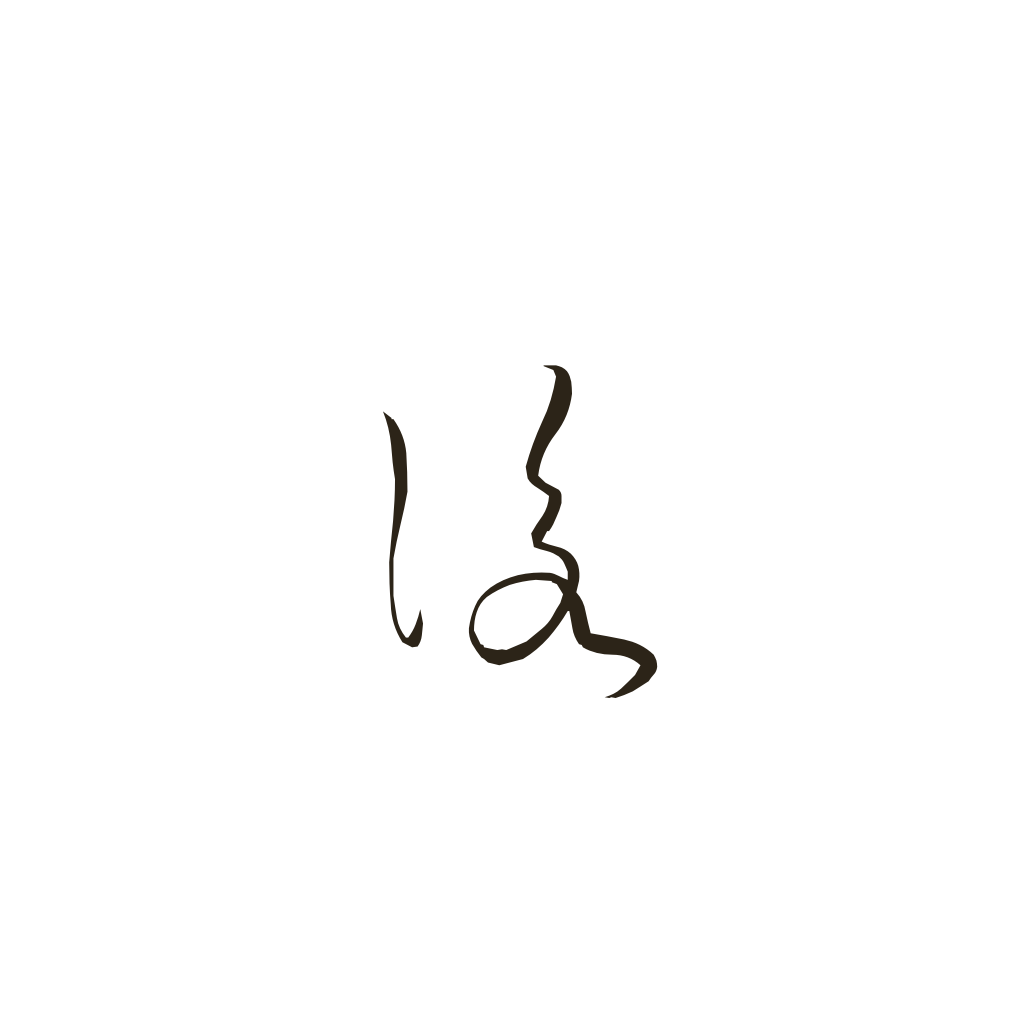
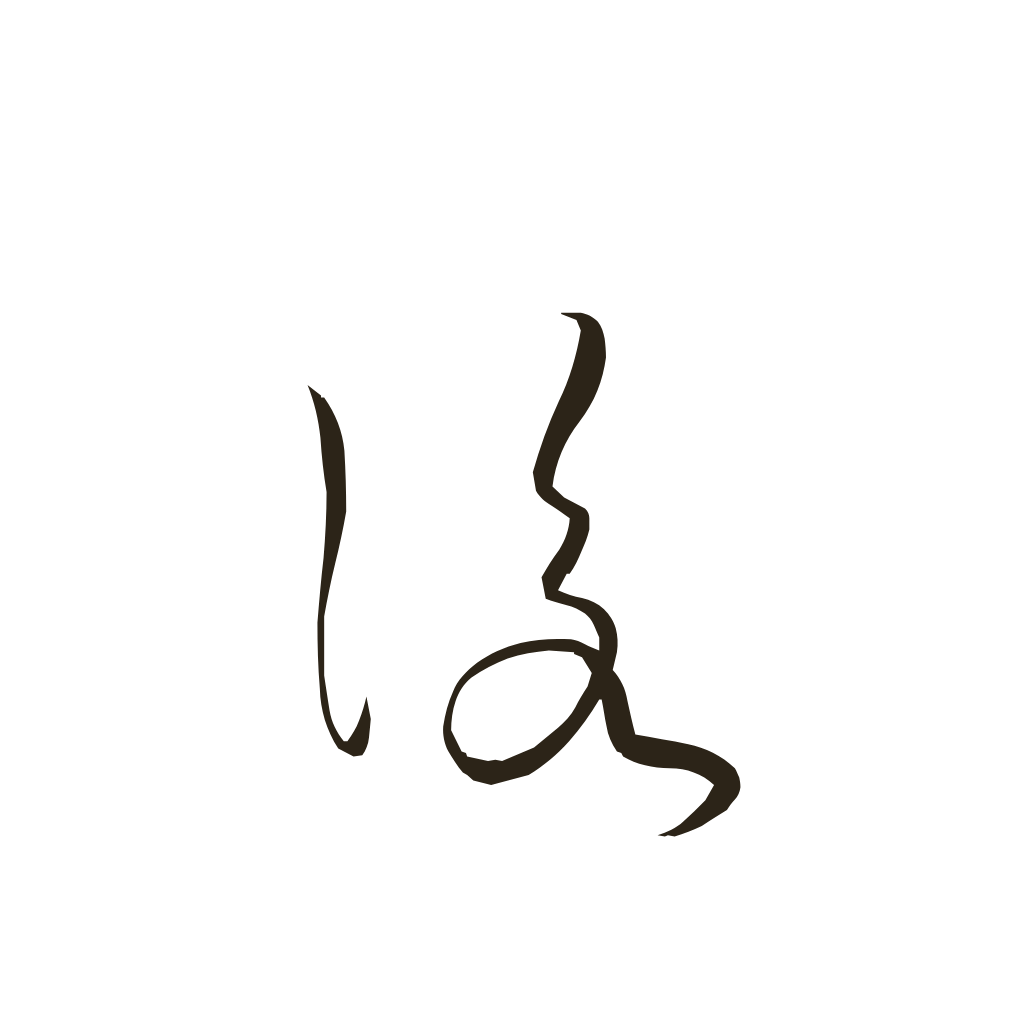
アイコンを拡大

Changed region(s): [[0.375, 0.2812, 0.7188, 0.8125], [0.2812, 0.375, 0.375, 0.75]]

diff --git a/scripts/generate-app-icons.js b/scripts/generate-app-icons.js
@@ -1,0 +1,73 @@
+/**
+ * KouzanSousho フォントでアプリアイコン・スプラッシュを再生成する。
+ *
+ * 実行:
+ *   cd scripts
+ *   node generate-app-icons.js
+ *
+ * 出力先: assets/images/
+ *   - icon.png / icon-ios.png (1024x1024, 文字を大きく)
+ *   - splash-icon.png / splash-icon-dark.png (400x400)
+ */
+
+const { createCanvas, GlobalFonts } = require('@napi-rs/canvas');
+const path = require('path');
+const fs = require('fs');
+
+const FONT_PATH = path.resolve(__dirname, '../assets/fonts/KouzanSousho.otf');
+const ASSETS = path.resolve(__dirname, '../assets/images');
+
+GlobalFonts.registerFromPath(FONT_PATH, 'KouzanSousho');
+
+/**
+ * アプリアイコン (文字を大きく描画)
+ * @param {number} size 出力 px
+ * @param {string} filename
+ * @param {object} opts
+ *   - charRatio: 文字サイズ / size (0.85 くらいが見栄え良い)
+ *   - bg: 背景色 (null = 透過)
+ *   - fg: 前景色
+ *   - baselineY: 文字中心の Y 座標比率 (0.5 が中央だが草書は上寄りなので 0.56 前後)
+ */
+function render(size, filename, opts) {
+  const { charRatio = 0.85, bg = '#F5F0E8', fg = '#2C2418', baselineY = 0.56 } = opts || {};
+  const canvas = createCanvas(size, size);
+  const ctx = canvas.getContext('2d');
+
+  if (bg) {
+    ctx.fillStyle = bg;
+    ctx.fillRect(0, 0, size, size);
+  }
+
+  const fontSize = Math.round(size * charRatio);
+  ctx.fillStyle = fg;
+  ctx.font = `${fontSize}px KouzanSousho`;
+  ctx.textAlign = 'center';
+  ctx.textBaseline = 'middle';
+  ctx.fillText('詠', size / 2, size * baselineY);
+
+  const outPath = path.join(ASSETS, filename);
+  fs.writeFileSync(outPath, canvas.toBuffer('image/png'));
+  console.log(`✓ ${filename} (${size}x${size})`);
+}
+
+// ===== iOS / 汎用アイコン (1024×1024、文字 85%) =====
+render(1024, 'icon.png', { charRatio: 0.85 });
+render(1024, 'icon-ios.png', { charRatio: 0.85 });
+
+// ===== スプラッシュ (ライト背景、文字 85%) =====
+render(400, 'splash-icon.png', { charRatio: 0.85, bg: null });  // 背景は app.config で #F5F0E8
+
+// ===== スプラッシュ ダーク版 (透過、文字色を明るく) =====
+render(400, 'splash-icon-dark.png', { charRatio: 0.85, bg: null, fg: '#E8E0D0' });
+
+// ===== Android adaptive icon foreground =====
+// Android のランチャーは foreground を中央 66% にクロップする (safe area)。
+// 文字サイズは 0.60 程度が無難 (safe area にぴったり収まりつつ見栄えが良い)。
+render(1024, 'android-icon-foreground.png', { charRatio: 0.60, bg: null });
+
+// ===== Android monochrome icon (Android 13+ のテーマ化アイコン用) =====
+// システムが自動で色を置き換えるので、黒で描画しておけば OK。
+render(1024, 'android-icon-monochrome.png', { charRatio: 0.60, bg: null, fg: '#000000' });
+
+console.log('done.');

diff --git a/app.config.ts b/app.config.ts
@@ -46,11 +46,11 @@ export default {
         {
           backgroundColor: "#F5F0E8",
           image: "./assets/images/splash-icon.png",
-          imageWidth: 76,
+          imageWidth: 140,
           dark: {
             backgroundColor: "#1A1510",
             image: "./assets/images/splash-icon-dark.png",
-            imageWidth: 76,
+            imageWidth: 140,
           },
         },
       ],
